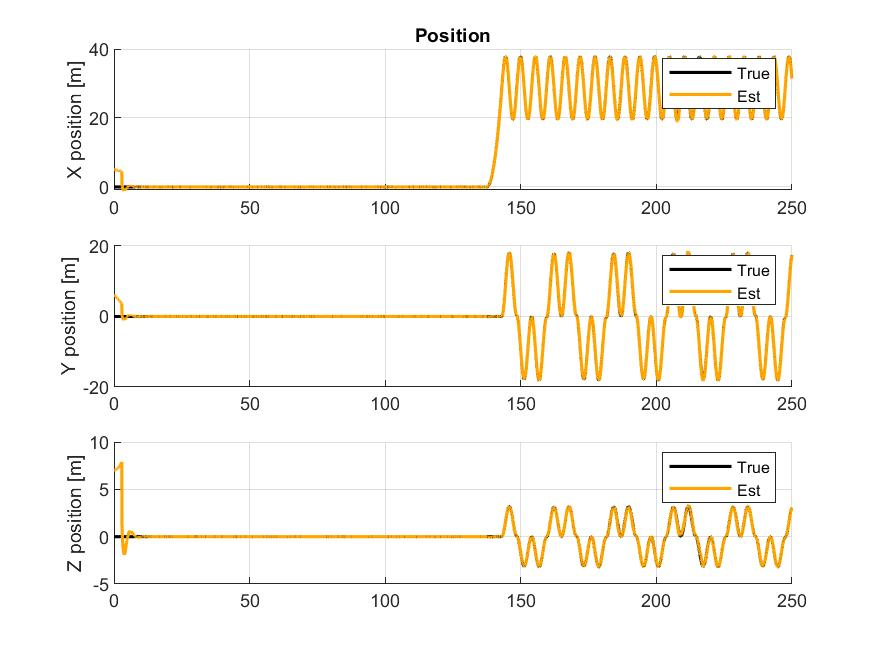
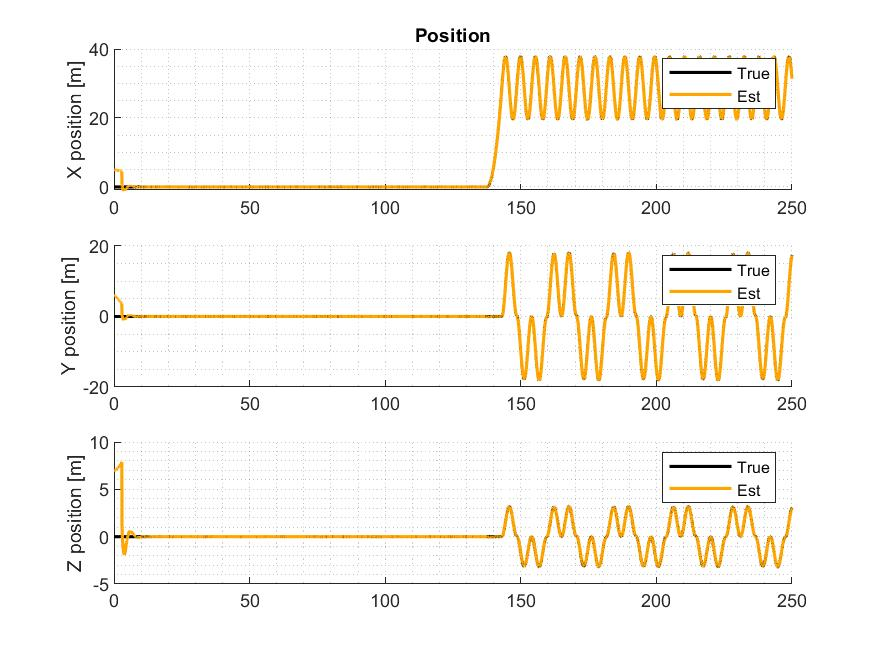
fix plots

diff --git a/ESKF/PlotResults.m b/ESKF/PlotResults.m
@@ -10,7 +10,7 @@ plot(time, ins_data(1,:),'Color', [1,165/255, 0], 'Linewidth', 1.5);
 ylabel('X position [m]')
 legend('True', 'Est');
 title('Position');
-grid on;
+grid minor;
 
 subplot(3, 1, 2)
 hold on;
@@ -18,7 +18,7 @@ plot(time, p_n_nb(2,:),'Color', 'black', 'Linewidth', 1.5);
 plot(time, ins_data(2,:) ,'Color', [1,165/255, 0], 'Linewidth', 1.5);
 ylabel('Y position [m]')
 legend('True', 'Est');
-grid on;
+grid minor;
 
 subplot(3, 1, 3)
 hold on;
@@ -26,7 +26,7 @@ plot(time, p_n_nb(3,:),'Color', 'black', 'Linewidth', 1.5);
 plot(time, ins_data(3,:) ,'Color', [1,165/255, 0], 'Linewidth', 1.5);
 ylabel('Z position [m]')
 legend('True', 'Est');
-grid on;
+grid minor;
 saveas(gcf,'results/Position.jpeg')
 
 % POSITION ERROR
@@ -35,27 +35,27 @@ figure(gcf);
 subplot(3, 1, 1)
 hold on;
 plot(time, p_n_nb(1,:) - ins_data(1,:) ,'Color', [0.6350, 0.0780, 0.1840], 'Linewidth', 0.5);
-ylim([-3 3]);
+ylim([-1 1]);
 ylabel('X position [m]')
 legend('Est');
 title('Position Error');
-grid on;
+grid minor;
 
 subplot(3, 1, 2)
 hold on;
 plot(time, p_n_nb(2,:) - ins_data(2,:) ,'Color', [0.6350, 0.0780, 0.1840], 'Linewidth', 0.5);
-ylim([-3 3]);
+ylim([-1 1]);
 ylabel('Y position [m]')
 legend('Error');
-grid on;
+grid minor;
 
 subplot(3, 1, 3)
 hold on;
 plot(time, p_n_nb(3,:) - ins_data(3,:) ,'Color', [0.6350, 0.0780, 0.1840], 'Linewidth', 0.5);
-ylim([-3 3]);
+ylim([-1 1]);
 ylabel('Z position [m]')
 legend('Error');
-grid on;
+grid minor;
 saveas(gcf,'results/PositionError.jpeg')
 
 
@@ -66,29 +66,29 @@ subplot(3, 1, 1)
 hold on;
 plot(time, v_n_nb(1,:),'Color', 'black', 'Linewidth', 1.5);
 plot(time, ins_data(4,:) ,'Color', [1,165/255, 0], 'Linewidth', 1.5);
-ylim([-20 20]);
+ylim([-15 15]);
 ylabel('X velocity [m]')
 legend('True', 'Est');
 title('Velocity');
-grid on;
+grid minor;
 
 subplot(3, 1, 2)
 hold on;
 plot(time, v_n_nb(2,:),'Color', 'black', 'Linewidth', 1.5);
 plot(time, ins_data(5,:) ,'Color', [1,165/255, 0], 'Linewidth', 1.5);
-ylim([-20 20]);
+ylim([-15 15]);
 ylabel('Y velocity [m]')
 legend('True', 'Est');
-grid on;
+grid minor;
 
 subplot(3, 1, 3)
 hold on;
 plot(time, v_n_nb(3,:),'Color', 'black', 'Linewidth', 1.5);
 plot(time, ins_data(6,:) ,'Color', [1,165/255, 0], 'Linewidth', 1.5);
-ylim([-20 20]);
+ylim([-15 15]);
 ylabel('Z velocity [m]')
 legend('True', 'Est');
-grid on;
+grid minor;
 saveas(gcf,'results/Velocity.jpeg')
 
 % VELOCITY ERROR
@@ -97,24 +97,27 @@ figure(gcf);
 subplot(3, 1, 1)
 hold on;
 plot(time, v_n_nb(1,:) - ins_data(4,:) ,'Color', [0.6350, 0.0780, 0.1840], 'Linewidth', 0.5);
+ylim([-1 1]);
 ylabel('X velocity [m/s]')
 legend('Error');
 title('Velocity Error');
-grid on;
+grid minor;
 
 subplot(3, 1, 2)
 hold on;
 plot(time, v_n_nb(2,:) - ins_data(5,:) ,'Color', [0.6350, 0.0780, 0.1840], 'Linewidth', 0.5);
+ylim([-1 1]);
 ylabel('Y velocity [m/s]')
 legend('Error');
-grid on;
+grid minor;
 
 subplot(3, 1, 3)
 hold on;
 plot(time, v_n_nb(3,:) - ins_data(6,:) ,'Color', [0.6350, 0.0780, 0.1840], 'Linewidth', 0.5);
+ylim([-1 1]);
 ylabel('Z velocity [m/s]')
 legend('Error');
-grid on;
+grid minor;
 saveas(gcf,'results/VelocityError.jpeg')
 
 
@@ -126,29 +129,29 @@ subplot(3, 1, 1)
 hold on;
 plot(time, bacc_b_nb(1,:),'Color', 'black', 'Linewidth', 1.5);
 plot(time, ins_data(7,:) ,'Color', [1,165/255, 0], 'Linewidth', 1.5);
-ylim([-20 20]);
+ylim([-1 1]);
 ylabel('X acc bias [deg]')
 legend('True', 'Est');
 title('Accelerometer bias');
-grid on;
+grid minor;
 
 subplot(3, 1, 2)
 hold on;
 plot(time, bacc_b_nb(2,:),'Color', 'black', 'Linewidth', 1.5);
 plot(time, ins_data(8,:) ,'Color', [1,165/255, 0], 'Linewidth', 1.5);
-ylim([-20 20]);
+ylim([-1 1]);
 ylabel('Y acc bias [deg]')
 legend('True', 'Est');
-grid on;
+grid minor;
 
 subplot(3, 1, 3)
 hold on;
 plot(time, bacc_b_nb(3,:),'Color', 'black', 'Linewidth', 1.5);
 plot(time, ins_data(9,:) ,'Color', [1,165/255, 0], 'Linewidth', 1.5);
-ylim([-20 20]);
+ylim([-1 1]);
 ylabel('Z acc bias [deg]')
 legend('True', 'Est');
-grid on;
+grid minor;
 saveas(gcf,'results/AccelBiast.jpeg')
 
 
@@ -158,27 +161,27 @@ figure(gcf);
 subplot(3, 1, 1)
 hold on;
 plot(time, bacc_b_nb(1,:) - ins_data(7,:) ,'Color', [0.6350, 0.0780, 0.1840], 'Linewidth', 0.5);
-ylim([-20 20]);
+ylim([-1 1]);
 ylabel('X accel bias [m/s^2]')
 legend('Error');
 title('Accelerometer Bias Error');
-grid on;
+grid minor;
 
 subplot(3, 1, 2)
 hold on;
 plot(time, bacc_b_nb(2,:) - ins_data(8,:) ,'Color', [0.6350, 0.0780, 0.1840], 'Linewidth', 0.5);
-ylim([-20 20]);
+ylim([-1 1]);
 ylabel('Y accel bias error [m/s^2]')
 legend('Error');
-grid on;
+grid minor;
 
 subplot(3, 1, 3)
 hold on;
 plot(time, bacc_b_nb(3,:) - ins_data(9,:) ,'Color', [0.6350, 0.0780, 0.1840], 'Linewidth', 0.5);
-ylim([-20 20]);
+ylim([-1 1]);
 ylabel('Z accel bias [m/s^2]')
 legend('Error');
-grid on;
+grid minor;
 saveas(gcf,'results/AccelBiasError.jpeg')
 
 
@@ -190,20 +193,20 @@ subplot(3, 1, 1)
 hold on;
 plot(time, rad2deg*att_n_nb(1,:), 'Color', 'black', 'Linewidth', 1.5);
 plot(time, rad2deg*ins_data(10,:),'Color', [1,165/255, 0], 'Linewidth', 1.5);
-ylim([-200 200]);
+ylim([-20 20]);
 ylabel('Roll angle [deg]')
 legend('True', 'Est');
 title('Attitude');
-grid on;
+grid minor;
 
 subplot(3, 1, 2)
 hold on;
 plot(time, rad2deg*att_n_nb(2,:),'Color', 'black', 'Linewidth', 1.5);
 plot(time, rad2deg*ins_data(11,:), 'Color', [1,165/255, 0], 'Linewidth', 1.5);
-ylim([-200 200]);
+ylim([-20 20]);
 ylabel('Pitch angle [deg]')
 legend('True', 'Est');
-grid on;
+grid minor;
 
 subplot(3, 1, 3)
 hold on;
@@ -213,7 +216,7 @@ ylim([-200 200]);
 xlabel('Time [s]');
 ylabel('Yaw angle [deg]')
 legend('True', 'Est');
-grid on;
+grid minor;
 saveas(gcf,'results/Attitude.jpeg')
 
 
@@ -223,27 +226,27 @@ figure(gcf);
 subplot(3, 1, 1)
 hold on;
 plot(time, ssa(rad2deg*att_n_nb(1,:) - rad2deg*ins_data(10,:),'deg') ,'Color', [0.6350, 0.0780, 0.1840], 'Linewidth', 0.5);
-ylim([-200 200]);
+ylim([-5 5]);
 ylabel('Roll angle [deg]')
 legend('Error');
 title('Attitude Error');
-grid on;
+grid minor;
 
 subplot(3, 1, 2)
 hold on;
 plot(time, ssa(rad2deg*att_n_nb(2,:) - rad2deg*ins_data(11,:), 'deg') ,'Color', [0.6350, 0.0780, 0.1840], 'Linewidth', 0.5);
-ylim([-200 200]);
+ylim([-5 5]);
 ylabel('Pitch angle [deg]')
 legend('Error');
-grid on;
+grid minor;
 
 subplot(3, 1, 3)
 hold on;
 plot(time, ssa(rad2deg*att_n_nb(3,:) - rad2deg*ins_data(12,:),'deg') ,'Color', [0.6350, 0.0780, 0.1840], 'Linewidth', 0.5);
-ylim([-200 200]);
+ylim([-5 5]);
 ylabel('Yaw angle [deg]')
 legend('Error');
-grid on;
+grid minor;
 saveas(gcf,'results/AttitudeError.jpeg')
 
 
@@ -255,29 +258,29 @@ subplot(3, 1, 1)
 hold on;
 plot(time, bars_b_nb(1,:),'Color', 'black', 'Linewidth', 1.5);
 plot(time, ins_data(13,:) ,'Color', [1,165/255, 0], 'Linewidth', 1.5);
-ylim([-1 1]);
+ylim([-0.1 0.1]);
 ylabel('Roll bias [deg/s]')
 legend('True', 'Est');
 title('Gyro bias');
-grid on;
+grid minor;
 
 subplot(3, 1, 2)
 hold on;
 plot(time, bars_b_nb(2,:),'Color', 'black', 'Linewidth', 1.5);
 plot(time, ins_data(14,:) ,'Color', [1,165/255, 0], 'Linewidth', 1.5);
-ylim([-1 1]);
+ylim([-0.1 0.1]);
 ylabel('Pitch bias [deg/s]')
 legend('True', 'Est');
-grid on;
+grid minor;
 
 subplot(3, 1, 3)
 hold on;
 plot(time, bars_b_nb(3,:),'Color', 'black', 'Linewidth', 1.5);
 plot(time, ins_data(15,:) ,'Color', [1,165/255, 0], 'Linewidth', 1.5);
-ylim([-1 1]);
+ylim([-0.1 0.1]);
 ylabel('Yaw bias [deg/s]')
 legend('True', 'Est');
-grid on;
+grid minor;
 saveas(gcf,'results/GyroBias.jpeg')
 
 % GYRA BIAS ERROR
@@ -286,27 +289,27 @@ figure(gcf);
 subplot(3, 1, 1)
 hold on;
 plot(time, rad2deg*(bars_b_nb(1,:) - ins_data(13,:)) ,'Color', [0.6350, 0.0780, 0.1840], 'Linewidth', 0.5);
-ylim([-50 50]);
+ylim([-1 1]);
 ylabel('Roll bias [deg/s]')
 legend('Error');
 title('Gyro Bias Error');
-grid on;
+grid minor;
 
 subplot(3, 1, 2)
 hold on;
 plot(time, rad2deg*(bars_b_nb(2,:) - ins_data(14,:)) ,'Color', [0.6350, 0.0780, 0.1840], 'Linewidth', 0.5);
-ylim([-50 50]);
+ylim([-1 1]);
 ylabel('Pitch bias [deg/s]')
 legend('Error');
-grid on;
+grid minor;
 
 subplot(3, 1, 3)
 hold on;
 plot(time, rad2deg*(bars_b_nb(3,:) - ins_data(15,:)) ,'Color', [0.6350, 0.0780, 0.1840], 'Linewidth', 0.5);
-ylim([-50 50]);
+ylim([-1 1]);
 ylabel('Yaw bias [deg/s]')
 legend('Error');
-grid on;
+grid minor;
 saveas(gcf,'results/GyroBiasError.jpeg')
 
 
@@ -316,28 +319,28 @@ figure(gcf);
 subplot(3, 1, 1)
 hold on;
 plot(time, g_err_data(1,:),'Color', 'black', 'Linewidth', 1.5);
-ylim([-0.00001 0.00001]);
+% ylim([-0.00001 0.00001]);
 ylabel('Gravity X [m/s^2]')
 legend('Est');
 title('Gravity');
-grid on;
+grid minor;
 
 subplot(3, 1, 2)
 hold on;
 plot(time, g_err_data(2,:),'Color', 'black', 'Linewidth', 1.5);
-ylim([-0.00001 0.00001]);
+% ylim([-0.00001 0.00001]);
 ylabel('Gravity Y [m/s^2]')
 legend('Est');
-grid on;
+grid minor;
 
 
 subplot(3, 1, 3)
 hold on;
 plot(time, g_err_data(3,:),'Color', 'black', 'Linewidth', 1.5);
-ylim([9.80600 9.81000]);
+% ylim([9.80600 9.81000]);
 ylabel('Gravity Z [m/s^2]')
 legend('Est');
-grid on;
+grid minor;
 
 saveas(gcf,'results/GravityErrorState.jpeg')
 
@@ -353,5 +356,5 @@ xlabel('Y position [m]');
 ylabel('X position [m]');
 title('Position Plot');
 legend('True', 'Estimated');
-grid on;
+grid minor;
 saveas(gcf,'results/PositionMap.jpeg')
